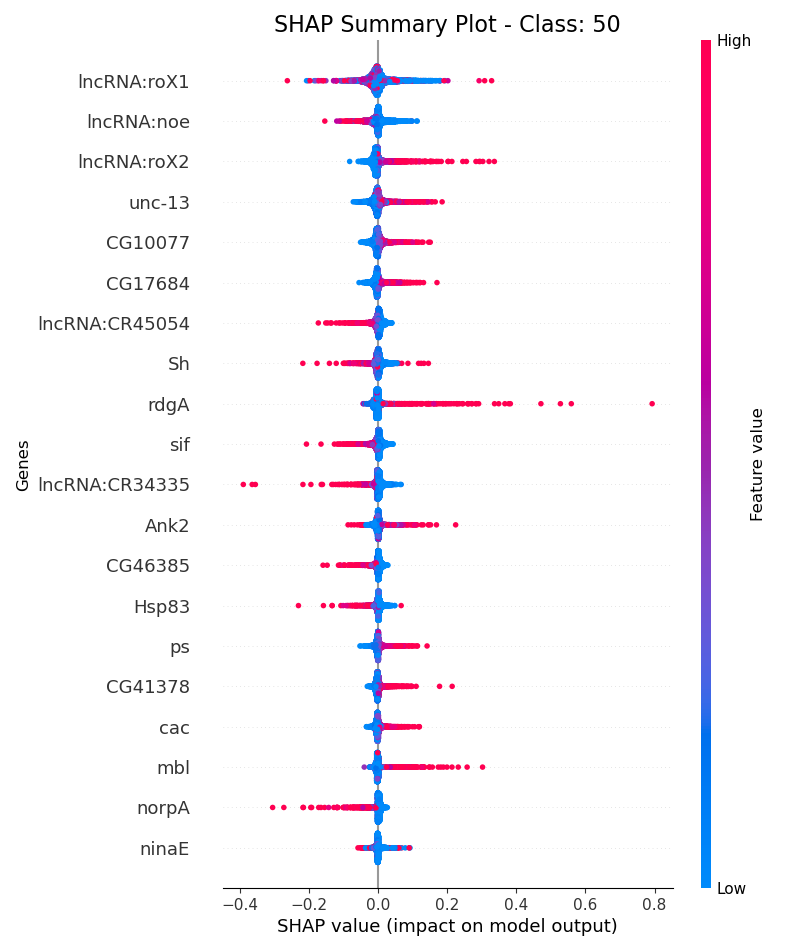
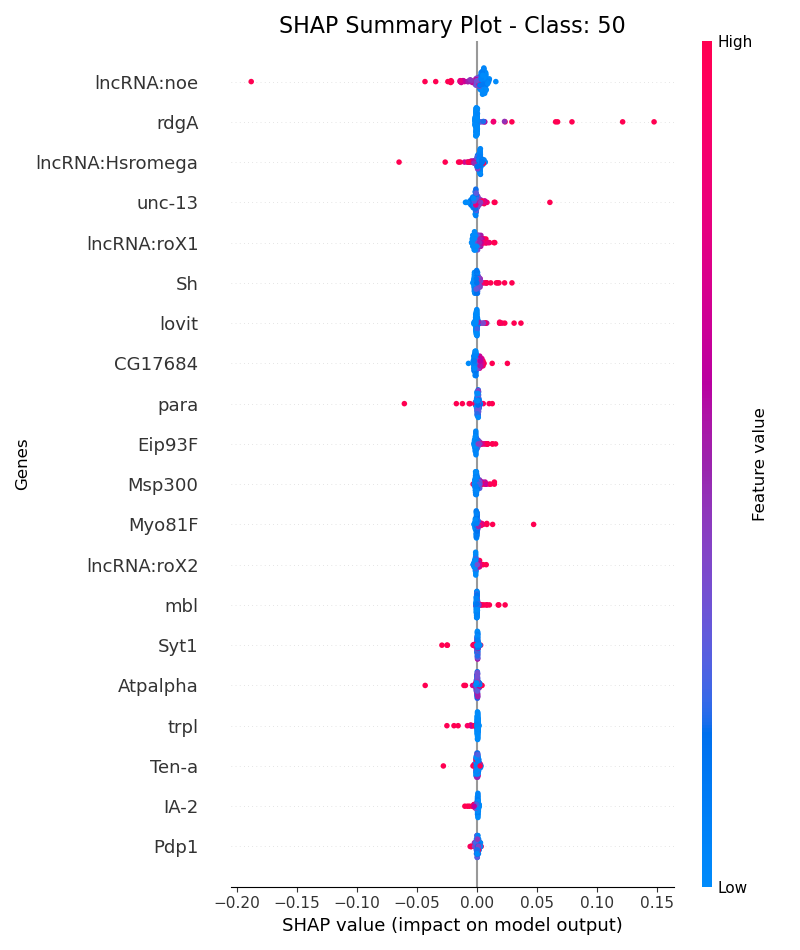
updated shap to work on both device options

diff --git a/Code/interpreter.py b/Code/interpreter.py
@@ -211,23 +211,27 @@ class Interpreter:
         # Compute SHAP values
         shap_values = explainer.shap_values(self.test_data)
 
-        # Adjust SHAP values and test data shapes if necessary - works on mac
-        if isinstance(shap_values, list):
-            squeezed_shap_values = [np.squeeze(val, axis=1) if val.ndim >= 3 else val for val in shap_values]
+        # Adjust SHAP values and test data shapes based on the system type
+        device = self.config.DataParameters.GeneralSettings.model_type.lower()
+        if device == 'M':
+            # Adjust SHAP values for macOS
+            if isinstance(shap_values, list):
+                squeezed_shap_values = [np.squeeze(val, axis=1) if val.ndim >= 3 else val for val in shap_values]
+            else:
+                squeezed_shap_values = (np.squeeze(shap_values, axis=1) if shap_values.ndim >= 3 else shap_values)
+
         else:
-            squeezed_shap_values = (np.squeeze(shap_values, axis=1) if shap_values.ndim >= 3 else shap_values)
+            # Adjust SHAP values for Windows
+            if isinstance(shap_values, list):
+                squeezed_shap_values = [np.squeeze(val, axis=1) if val.ndim > 3 else val for val in shap_values]
+            else:
+                squeezed_shap_values = (np.squeeze(shap_values, axis=1) if shap_values.ndim > 3 else shap_values)
 
-        # # Adjust SHAP values and test data shapes if necessary
-        # if isinstance(shap_values, list):
-        #     squeezed_shap_values = [np.squeeze(val, axis=1) if val.ndim > 3 else val for val in shap_values]
-        # else:
-        #     squeezed_shap_values = (np.squeeze(shap_values, axis=1) if shap_values.ndim > 3 else shap_values)
-
-        # # Convert the SHAP values to a list of arrays for compatibility with the rest of the code
-        # squeezed_shap_values = [
-        #     squeezed_shap_values[:, :, i] for i in range(squeezed_shap_values.shape[2])
-        # ]
-        
+            # Convert the SHAP values to a list of arrays for compatibility with the rest of the code
+            squeezed_shap_values = [
+                squeezed_shap_values[:, :, i] for i in range(squeezed_shap_values.shape[2])
+            ]
+            
         return squeezed_shap_values, squeezed_test_data
 
     def save_shap_values(self, shap_values):

diff --git a/Code/config.py b/Code/config.py
@@ -1,7 +1,7 @@
 # config.py
 config_dict = {
     "Device": {
-        "processor": "M",  # Options: 'Other' or 'M' (M is for Mac M1/M2/M3 processors)
+        "processor": "Other",  # Options: 'Other' or 'M' (M is for Mac M1/M2/M3 processors)
     },
     "FileLocations": {
         "training_file": "fly_train.h5ad",       # Name of the training data file
@@ -81,9 +81,9 @@ config_dict = {
     },
     "FeatureImportanceAndVisualizations": {
         "run_visualization": True,       # Options: True, False
-        "run_interpreter": False,        # Options: True, False (SHAP)
+        "run_interpreter": True,        # Options: True, False (SHAP)
         "load_SHAP": False,              # Options: True to load SHAP values, False to compute them, only works if run_interpreter is True
-        "reference_size": 5000,          # Reference data size for SHAP
+        "reference_size": 50,          # Reference data size for SHAP
         "save_predictions": False,        # Options: True, False; (Model predictions csv file)
     },
     "DataSplit": {
